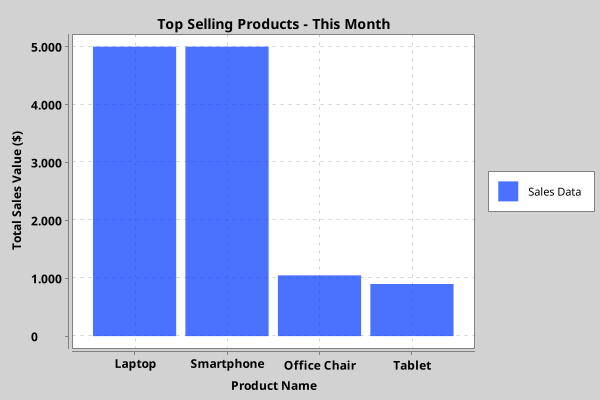
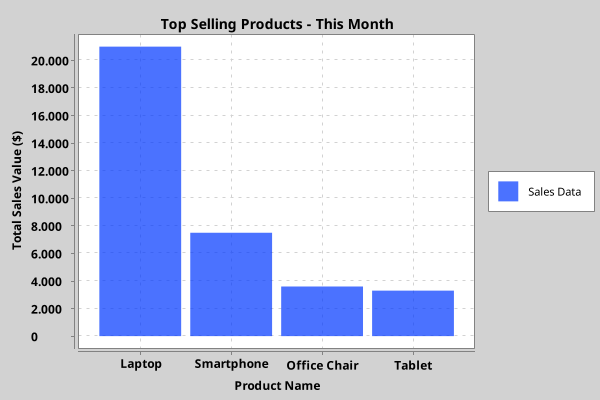
Fixed line chart and changed filler script

diff --git a/src/main/java/app/persistence/ChartMapper.java b/src/main/java/app/persistence/ChartMapper.java
@@ -16,34 +16,38 @@ public class ChartMapper {
     }
 
     public ChartData topSelling() throws SQLException {
-        // SQL query to fetch top-selling products for the current month
         String sql = """
-    SELECT p.name AS label,
-           SUM(s.total_amount) AS value
-    FROM sales s
-    JOIN products p ON s.product_id = p.product_id
-    WHERE date_trunc('month', s.sale_date) = date_trunc('month', CURRENT_DATE)
-    GROUP BY p.name
-    ORDER BY value DESC;
+        SELECT p.name AS label,
+               SUM(s.total_amount) AS value
+        FROM sales s
+        JOIN products p ON s.product_id = p.product_id
+        WHERE s.sale_date >= date_trunc('month', CURRENT_DATE)
+          AND s.sale_date < date_trunc('month', CURRENT_DATE) + INTERVAL '1 month'
+        GROUP BY p.name
+        ORDER BY value DESC
+        LIMIT 5;
     """;
 
-        // Execute SQL query and collect data
         try (Statement stmt = conn.createStatement();
              ResultSet rs = stmt.executeQuery(sql)) {
 
             List<String> labels = new ArrayList<>();
             List<Number> values = new ArrayList<>();
 
-            // Collect the results of the query
             while (rs.next()) {
-                labels.add(rs.getString("label"));  // Product name (label)
-                values.add(rs.getDouble("value"));  // Total sales value (value)
+                labels.add(rs.getString("label"));
+                values.add(rs.getDouble("value"));
             }
 
-            // Return the chart data (labels and values)
+            if (labels.isEmpty()) {
+                labels.add("No Sales");
+                values.add(0);
+            }
+
             return new ChartData(labels, values);
         }
     }
+
 
     public ChartData monthlySalesLastYear() throws SQLException {
         String sql = """
